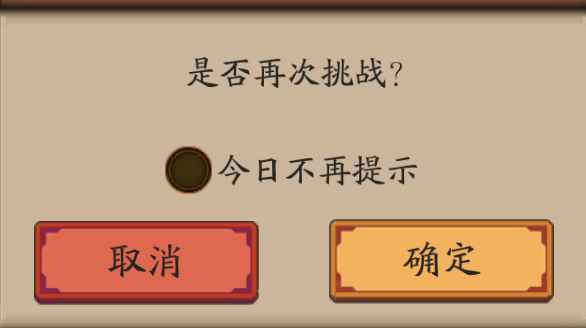
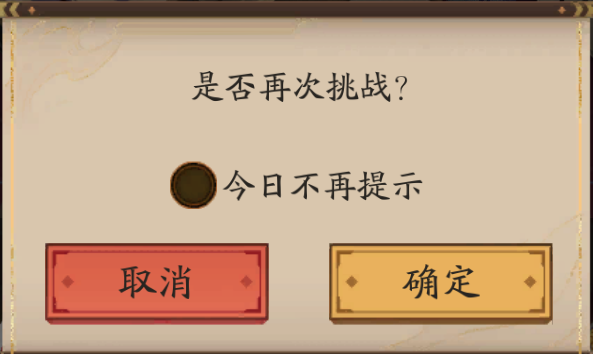
new ai adapt

diff --git a/gui_main.py b/gui_main.py
@@ -143,9 +143,9 @@ class GameBotGUI:
         self.adb_path_entry.pack()
         # 关卡名称与对应图片文件的映射
         self.level_map = {
-            "周年庆999": {
-                "start": get_path("start_button_300.png"),
-                "end": get_path("finish_mark_999.png")
+            "通用": {
+                "start": get_path("start_button.png"),
+                "end": get_path("finish_mark_300.png")
             },
             "英杰等普通耗3体副本": {
                 "start": get_path("start_button_3.png"),
@@ -200,13 +200,6 @@ class GameBotGUI:
         self.level_menu.grid(row=0, column=1, padx=5)
 
         self.rest_event_enabled = tk.BooleanVar(value=True)
-        self.rest_event_check = tk.Checkbutton(
-            level_frame,
-            text="999副本休息事件",
-            variable=self.rest_event_enabled
-        )
-        self.rest_event_check.grid(row=0, column=2, padx=5)
-
         # 3. 阈值设置
         tk.Label(root, text="识别阈值 (推荐 0.7-0.8):").pack(pady=2)
         self.conf_slider = tk.Scale(root, from_=0.1, to=1.0, resolution=0.05, orient=tk.HORIZONTAL, length=200)
@@ -512,7 +505,7 @@ class GameBotGUI:
 
     def swipe_up_full(self):
         # 每轮结束后上滑刷新目标列表
-        x = self.rng.randint(1332, 1554)
+        x = self.rng.randint(1332, 1438)
         y1 = int(200)
         y2 = int(635)
         self.log(f" -> [刷新] 上滑屏幕: ({x},{y2}) -> ({x},{y1})")
@@ -580,27 +573,6 @@ class GameBotGUI:
             
         return False
 
-    def accept_task_if_present(self, screen=None):
-        """检测并点击悬赏任务弹窗，返回是否成功点击。"""
-        task_accept_img = get_path("task-accept.png")
-        try:
-            accepted = self.find_and_tap(
-                task_accept_img,
-                confidence=0.6,
-                do_tap=True,
-                screen=screen
-            )
-        except Exception as error:
-            self.log(f"检测 task-accept.png 失败: {error}")
-            return False
-
-        if accepted:
-            self.log("【系统提示】触发悬赏任务！已自动接受。")
-            sys.stdout.write('\a')
-            sys.stdout.flush()
-            time.sleep(0.6)
-        return accepted
-
     def wait_for_image(self, template_path, timeout=60, confidence=0.5, do_tap=False, interval=1.0):
         start_t = time.time()
         while self.is_running and time.time() - start_t < timeout:
@@ -611,18 +583,28 @@ class GameBotGUI:
             if current_screen is None:
                 time.sleep(interval)
                 continue
-            # 全局检测：优先扫描并点击任务接受弹窗，点击后重新截图
-            if self.accept_task_if_present(screen=current_screen):
-                continue
+           # 全局检测：优先扫描并点击任务接受弹窗（task-accept.png），若存在则点击并继续等待目标
+            try:
+                task_accept_img = get_path("task-accept.png")
+                # 使用较高置信度，若命中则直接点击（find_and_tap 会在命中时记录日志）
+                if self.find_and_tap(task_accept_img, confidence=0.7, do_tap=True):
+                    time.sleep(0.6)
+                    try:
+                        # 在主线程弹出提示，避免在工作线程直接调用 tkinter
+                        self.root.after(0, lambda: messagebox.showinfo("提示", "有接取悬赏任务，记得完成！"))
+                    except Exception:
+                        pass
+            except Exception:
+                pass
 
             # 检测目标图片，同样传入 current_screen
             if self.find_and_tap(template_path, confidence=confidence, do_tap=False, screen=current_screen):
                 if do_tap:
-                    time.sleep(0.5) 
+                    time.sleep(0.3) 
                     # 此时画面可能变了，再次检测时让它内部重新截图确认
                     if not self.find_and_tap(template_path, confidence=confidence, do_tap=True):
-                        self.log(f"警告：目标 {os.path.basename(template_path)} 在点击时未找到")
-                        self.full_screen_random_tap()
+                        self.log(f"警告：目标 {os.path.basename(template_path)} 在点击时未找到，不执行兜底随机点击")
+                        return False
                 return True
             
             time.sleep(interval)
@@ -763,7 +745,7 @@ class GameBotGUI:
             
 
             fail_count = 0
-            fail_img = get_path("restart.png")
+            fail_img = get_path("fail.png")
             finish_img = get_path("finish_mark_300.png")
             while self.is_running:
                 x = self.random_in_offset(base_x, 30)
@@ -773,9 +755,8 @@ class GameBotGUI:
                 time.sleep(2)
 
                 if not self.wait_for_image(get_path("attack.png"), timeout=3, confidence=0.8, do_tap=True):
-                    fail_count += 1
-                    self.log(f"第 {idx} 个位置检测到 attack 失败，准备切换到下一个位置")
-                    break
+                    self.log(f"第 {idx} 个位置未确认 attack，停止本轮，避免在未知页面点击下一个位置")
+                    return False
 
                 # 同时轮询 fail 与 finish：finish 继续当前坐标，fail 或 finish 超时则切换坐标
                 fight_timeout = 180
@@ -784,7 +765,8 @@ class GameBotGUI:
                 while self.is_running and time.time() - start_t < fight_timeout:
                     if self.find_and_tap(fail_img, confidence=0.7, do_tap=False):
                         time.sleep(0.5)
-                        self.full_screen_random_tap()  # 检测到 fail 就随机点击清理一下，增加下一轮检测的成功率
+                        # 已经确认 restart 图标存在时，直接点击该模板，避免随机点击误触其他页面控件。
+                        self.find_and_tap(fail_img, confidence=0.7, do_tap=True)
                         fail_count += 1
                         self.log(f"第 {idx} 个位置失败，准备切换到下一个位置")
                         time.sleep(2)
@@ -792,9 +774,12 @@ class GameBotGUI:
 
                     if self.find_and_tap(finish_img, confidence=0.7, do_tap=False):
                         time.sleep(0.5)
-                        self.find_and_tap(finish_img, confidence=0.7, do_tap=True)
-                        finish_detected = True
-                        time.sleep(1.4)
+                        if self.find_and_tap(finish_img, confidence=0.7, do_tap=True):
+                            finish_detected = True
+                            time.sleep(1.4)
+                            break
+                        self.log(f"第 {idx} 个位置检测到结算标记后未能确认点击，按失败处理")
+                        fail_count += 1
                         break
 
                     time.sleep(2)
@@ -1031,7 +1016,7 @@ class GameBotGUI:
                 while self.is_running:
                     if self.check_total_time_limit():
                         return False
-                    if self.wait_for_image(current_start_img, timeout=2, confidence=conf_val, do_tap=False):
+                    if self.wait_for_image(current_start_img, timeout=3, confidence=conf_val, do_tap=False):
                         self.count += 1
                         self.count_label.config(text=f"已成功运行: {self.count} 轮")
                         self.log(f"第 {self.count} 轮结束，回到主界面")
@@ -1042,24 +1027,7 @@ class GameBotGUI:
                     time.sleep(1)
 
                 return False
-
-            # 超_时/挂机处理
-            if time.time() - start_time > 90:
-                while self.is_running:
-                    if self.check_total_time_limit():
-                        return False
-                    if self.find_and_tap(current_start_img, confidence=conf_val, do_tap=False):
-                        self.count += 1
-                        self.count_label.config(text=f"已成功运行: {self.count} 轮")
-                        self.log(f"第 {self.count} 轮超时检测到开始按钮，视为完成")
-                        return True
-                    else:
-                        self.log("超时检测未找到开始按钮，执行随机点击清理")
-                        self.full_screen_random_tap()
-                        time.sleep(1)  # 每次乱点后重置一点时间，避免疯狂点击
-
-                
-            time.sleep(1)
+           
 
         return False
     
@@ -1597,24 +1565,6 @@ class GameBotGUI:
             self.log(f"截图出错: {e}")
             messagebox.showerror("错误", f"截图出错: {e}")
 
-    def rest_event(self):
-        """休息期间处理999活动界面，并返回副本挑战界面。"""
-        conf_val = self.conf_slider.get()
-        self.log("休息事件开始：尝试处理999活动界面")
-
-        self.wait_for_image(get_path("999_back.png"), timeout=10, confidence=conf_val, do_tap=True)
-        self.wait_for_image(get_path("activate_button.png"), timeout=10, confidence=conf_val, do_tap=True)
-        if self.wait_for_image(get_path("999_takara.png"), timeout=5, confidence=conf_val, do_tap=True):
-            self.wait_for_image(get_path("open_takara.png"), timeout=10, confidence=conf_val, do_tap=True)
-            self.wait_for_image(get_path("takara_finish.png"), timeout=10, confidence=conf_val, do_tap=False)
-            self.full_screen_random_tap()
-            self.wait_for_image(get_path("takara_cancel.png"), timeout=10, confidence=conf_val, do_tap=True)
-        else:
-            self.log("未检测到999_takara.png，直接返回副本挑战界面")
-
-        self.wait_for_image(get_path("999_button.png"), timeout=10, confidence=conf_val, do_tap=True)
-        self.log("休息事件结束，已返回副本挑战界面")
-
     def rest_event_2(self):
         """休息期间进入另一种界面，等待后返回副本挑战界面。"""
         conf_val = self.conf_slider.get()
@@ -1656,10 +1606,7 @@ class GameBotGUI:
                 rest_seconds = self.rng.uniform(30, 90)
                 self.log(f"达到随机休息时间，暂停 {rest_seconds / 60:.1f} 分钟")
                 # 调用休息事件
-                if selected_level_name == "周年庆999" and self.rest_event_enabled.get():
-                    rest_event = self.rng.choice((self.rest_event, self.rest_event_2))
-                else:
-                    rest_event = self.rest_event_2
+                rest_event = self.rest_event_2
                 rest_event()
                 rest_end_time = time.time() + rest_seconds
                 while self.is_running and time.time() < rest_end_time:
